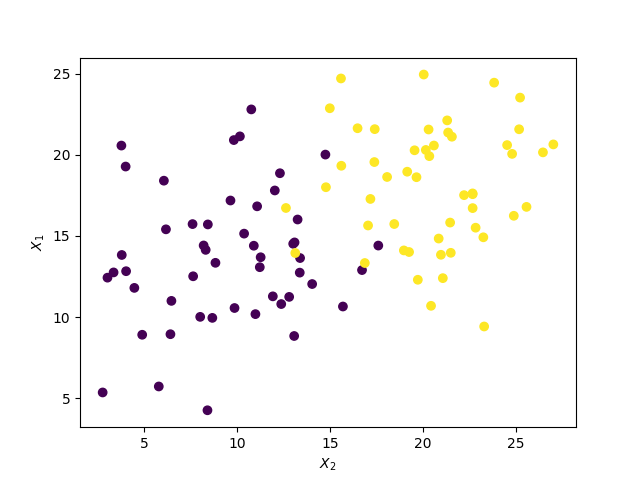
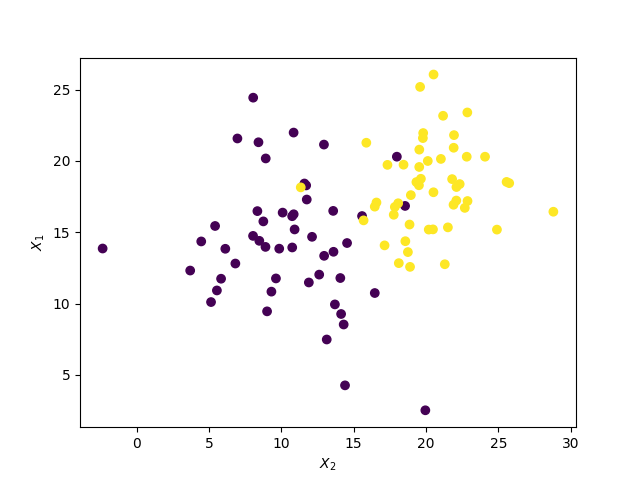
LAB 1 complete and refactor started

diff --git a/MACHINE-LEARNING/LABS-progs/labs/.vscode/.ropeproject/config.py b/MACHINE-LEARNING/LABS-progs/labs/.vscode/.ropeproject/config.py
@@ -1,0 +1,114 @@
+# The default ``config.py``
+# flake8: noqa
+
+
+def set_prefs(prefs):
+    """This function is called before opening the project"""
+
+    # Specify which files and folders to ignore in the project.
+    # Changes to ignored resources are not added to the history and
+    # VCSs.  Also they are not returned in `Project.get_files()`.
+    # Note that ``?`` and ``*`` match all characters but slashes.
+    # '*.pyc': matches 'test.pyc' and 'pkg/test.pyc'
+    # 'mod*.pyc': matches 'test/mod1.pyc' but not 'mod/1.pyc'
+    # '.svn': matches 'pkg/.svn' and all of its children
+    # 'build/*.o': matches 'build/lib.o' but not 'build/sub/lib.o'
+    # 'build//*.o': matches 'build/lib.o' and 'build/sub/lib.o'
+    prefs['ignored_resources'] = ['*.pyc', '*~', '.ropeproject',
+                                  '.hg', '.svn', '_svn', '.git', '.tox']
+
+    # Specifies which files should be considered python files.  It is
+    # useful when you have scripts inside your project.  Only files
+    # ending with ``.py`` are considered to be python files by
+    # default.
+    # prefs['python_files'] = ['*.py']
+
+    # Custom source folders:  By default rope searches the project
+    # for finding source folders (folders that should be searched
+    # for finding modules).  You can add paths to that list.  Note
+    # that rope guesses project source folders correctly most of the
+    # time; use this if you have any problems.
+    # The folders should be relative to project root and use '/' for
+    # separating folders regardless of the platform rope is running on.
+    # 'src/my_source_folder' for instance.
+    # prefs.add('source_folders', 'src')
+
+    # You can extend python path for looking up modules
+    # prefs.add('python_path', '~/python/')
+
+    # Should rope save object information or not.
+    prefs['save_objectdb'] = True
+    prefs['compress_objectdb'] = False
+
+    # If `True`, rope analyzes each module when it is being saved.
+    prefs['automatic_soa'] = True
+    # The depth of calls to follow in static object analysis
+    prefs['soa_followed_calls'] = 0
+
+    # If `False` when running modules or unit tests "dynamic object
+    # analysis" is turned off.  This makes them much faster.
+    prefs['perform_doa'] = True
+
+    # Rope can check the validity of its object DB when running.
+    prefs['validate_objectdb'] = True
+
+    # How many undos to hold?
+    prefs['max_history_items'] = 32
+
+    # Shows whether to save history across sessions.
+    prefs['save_history'] = True
+    prefs['compress_history'] = False
+
+    # Set the number spaces used for indenting.  According to
+    # :PEP:`8`, it is best to use 4 spaces.  Since most of rope's
+    # unit-tests use 4 spaces it is more reliable, too.
+    prefs['indent_size'] = 4
+
+    # Builtin and c-extension modules that are allowed to be imported
+    # and inspected by rope.
+    prefs['extension_modules'] = []
+
+    # Add all standard c-extensions to extension_modules list.
+    prefs['import_dynload_stdmods'] = True
+
+    # If `True` modules with syntax errors are considered to be empty.
+    # The default value is `False`; When `False` syntax errors raise
+    # `rope.base.exceptions.ModuleSyntaxError` exception.
+    prefs['ignore_syntax_errors'] = False
+
+    # If `True`, rope ignores unresolvable imports.  Otherwise, they
+    # appear in the importing namespace.
+    prefs['ignore_bad_imports'] = False
+
+    # If `True`, rope will insert new module imports as
+    # `from <package> import <module>` by default.
+    prefs['prefer_module_from_imports'] = False
+
+    # If `True`, rope will transform a comma list of imports into
+    # multiple separate import statements when organizing
+    # imports.
+    prefs['split_imports'] = False
+
+    # If `True`, rope will remove all top-level import statements and
+    # reinsert them at the top of the module when making changes.
+    prefs['pull_imports_to_top'] = True
+
+    # If `True`, rope will sort imports alphabetically by module name instead
+    # of alphabetically by import statement, with from imports after normal
+    # imports.
+    prefs['sort_imports_alphabetically'] = False
+
+    # Location of implementation of
+    # rope.base.oi.type_hinting.interfaces.ITypeHintingFactory In general
+    # case, you don't have to change this value, unless you're an rope expert.
+    # Change this value to inject you own implementations of interfaces
+    # listed in module rope.base.oi.type_hinting.providers.interfaces
+    # For example, you can add you own providers for Django Models, or disable
+    # the search type-hinting in a class hierarchy, etc.
+    prefs['type_hinting_factory'] = (
+        'rope.base.oi.type_hinting.factory.default_type_hinting_factory')
+
+
+def project_opened(project):
+    """This function is called after opening the project"""
+    # Do whatever you like here!

diff --git a/MACHINE-LEARNING/LABS-progs/labs/src/labs/lab1.py b/MACHINE-LEARNING/LABS-progs/labs/src/labs/lab1.py
@@ -17,13 +17,6 @@ class NaiveBayesLab:
         # инициализируем множество классов
         self.Y = data_set[:, [-1]].ravel()
 
-    def __init__(self, X, Y):
-        # в случае титаника классы определены в другом столбце, поэтому 
-        # реализация немного другая
-        self.clf = GaussianNB()
-        self.X_train = X
-        self.Y_train = Y
-
     def classification(self, test_train_ratio):
         # разбиваем набор данных на обучающую и тестовую выборку
         self.X_train, self.X_test, self.Y_train, self.Y_test =  train_test_split(self.X, self.Y, test_size=test_train_ratio)
@@ -32,11 +25,6 @@ class NaiveBayesLab:
         # классификация тестовой выборки
         self.Y_result = self.clf.predict(self.X_test)
         self.accuracy = accuracy_score(self.Y_test, self.Y_result)
-
-    def classification(self, X_test, Y_test):
-        self.clf.fit(self.X_train, self.Y_train)
-        self.Y_result = self.clf.predict(X_test)
-        self.accuracy = accuracy_score(Y_test, self.Y_result)
     
     def show_result(self):
         print("Size of train: ", len(self.X_train))
@@ -63,6 +51,9 @@ def spam():
     tools.plot_precision(accuracy_list, 'results/NaiveBayes/spam.png')
 
 def generate_points():
+    data = tools.MLStructure()
+    data_frame = pd.DataFrame()
+
     n = 50
     X_1 = np.random.normal(10, 4, n)
     X_1 = np.append(X_1, np.random.normal(20, 3, n))
@@ -70,30 +61,50 @@ def generate_points():
     X_2 = np.append(X_2, np.random.normal(18, 3, n))
     Y = np.full(n, -1)
     Y = np.append(Y, np.ones(n))
-    data_set = np.column_stack((X_1, X_2))
-    data_set = np.column_stack((data_set, Y))
-    tools.plot_data_set(data_set, 'results/NaiveBayes/generated.png')
 
-    test = NaiveBayesLab(data_set)
-    accuracy_list = tools.get_accuracy_list(test, 0.2, 0.9, 10)
-    tools.plot_precision(accuracy_list, 'results/NaiveBayes/generated_precision.png')
+    data_frame['X_1'] = X_1
+    data_frame['X_2'] = X_2
+    data_frame['Y'] = Y
+    tools.plot_data_set(data_frame, 'X_1', 'X_2', 'Y', 'results/NaiveBayes/generated.png')
 
-    test.classification(0.2)
-    test.show_result()
-    print('Confusion matrix: \n', confusion_matrix(test.Y_test, test.Y_result))
+    x = data_frame.drop('Y', axis=1)
+    y = data_frame['Y'].ravel()
+
+    data.clf = GaussianNB()
+    accuracy_list = tools.get_accuracy_list(data, 0.2, 0.9, 10)
+    # tools.plot_precision(accuracy_list, 'results/NaiveBayes/generated_precision.png')
+
+    # test.classification(0.2)
+    # test.show_result()
+    # print('Confusion matrix: \n', confusion_matrix(test.Y_test, test.Y_result))
     
 def titanic():
-    cat = preprocessing.OneHotEncoder()
-    X_train, Y_train = tools.read_csv_string('data/titanic/train.csv', cat, 1)
-    X_test = tools.read_csv_features('data/titanic/test.csv', cat)
-    Y_test = tools.read_csv_labels('data/titanic/gender_submission.csv', 'Survived')
-    test = NaiveBayesLab(X_train, Y_train)
-    test.classification(X_test, Y_test)
-    accuracy_list = tools.get_accuracy_list(test, 0.2, 0.9, 10)
-    tools.plot_precision(accuracy_list, 'results/NaiveBayes/spam.png')
+    data = tools.MLStructure()
+    train_set = pd.read_csv('data/titanic/train.csv')
+    train_set = tools.titanic_preprocessing(train_set)
+    data.x_train, data.y_train = tools.titanic_get_train_X_Y(train_set)
 
+    x_test_set = pd.read_csv('data/titanic/test.csv')
+    y_test_set = pd.read_csv('data/titanic/gender_submission.csv')
+    data.x_test = tools.titanic_preprocessing(x_test_set)
+    data.y_test = y_test_set['Survived'].ravel()
 
-
+    clf = GaussianNB()
+    clf.fit(data.x_train, data.y_train)
+    data.y_result = clf.predict(data.x_test)
+    tools.show_stat(data)
+    
+def titanic_split():
+    data = tools.MLStructure()
+    data_frame = pd.read_csv('data/titanic/train.csv')
+    data_frame = tools.titanic_preprocessing(data_frame)
+    x, y = tools.titanic_get_train_X_Y(data_frame)
+    data.x_train, data.x_test, data.y_train, data.y_test =  train_test_split(x, y, test_size=0.1)
+    
+    clf = GaussianNB()
+    clf.fit(data.x_train, data.y_train)
+    data.y_result = clf.predict(data.x_test)
+    tools.show_stat(data)
 
 
 

diff --git a/MACHINE-LEARNING/LABS-progs/labs/src/tools.py b/MACHINE-LEARNING/LABS-progs/labs/src/tools.py
@@ -1,8 +1,20 @@
 import numpy as np
 import pandas as pd
 from sklearn import preprocessing
+from sklearn.metrics import accuracy_score
+from sklearn.metrics import confusion_matrix
 import matplotlib.pyplot as plt
-#TODO: переделать X и Y в класс.
+
+#TODO: x, y in class
+class MLStructure(object):
+    x = None
+    y = None
+    clf = None
+    x_train = None
+    y_train = None
+    x_test = None
+    y_test = None
+    y_result = None
 
 # функция перевода строкового массива элементов выборки в числовой 
 def to_numeric(some_fit, ArrayToEncode):
@@ -17,30 +29,13 @@ def to_numeric(some_fit, ArrayToEncode):
 def read_string_data(some_fit, path):
     return to_numeric(some_fit, np.loadtxt(path, dtype='str', delimiter=',')) 
 
-def read_csv_string(path, cat, class_column):
-    data_frame = pd.read_csv(path)
-    data_frame = data_frame.fillna(0)
-    Y = data_frame.values[:, [class_column]].ravel().astype(int)
-    X = np.delete(data_frame.values, class_column, axis=1)
-    X = cat.fit_transform(X.astype(str)).toarray()
-    return X, Y; 
-
-def read_csv_features(path, cat):
-    data_frame = pd.read_csv(path)
-    data_frame = data_frame.fillna(0)
-    X = cat.transform(data_frame.astype(str)).toarray()
-    return X;
-
-def read_csv_labels(path, class_column_name):
-    Y = pd.read_csv(path, usecols=[class_column_name], dtype=int)
-    return Y; 
-
-def get_accuracy_list(clf, min_test_ratio, max_test_ratio, step_count):
+def get_accuracy_list(data, min_test_ratio, max_test_ratio, step_count):
     step = (max_test_ratio - min_test_ratio) / step_count
     accuracy_list = []
     iterator = min_test_ratio
     while iterator <= max_test_ratio:
-        clf.classification(iterator)
+        data.x_train, data.x_test, data.y_train, data.y_test =  train_test_split(data.x, data.y, test_size=test_train_ratio)
+        data.clf.fit()
         accuracy_list.append([1 - iterator, clf.accuracy])
         iterator += step
         iterator = round(iterator,2)
@@ -54,11 +49,42 @@ def plot_precision(points, plot_path):
     plt.savefig(plot_path)
     plt.close()
 
-def plot_data_set(data_set, plot_path):
-    x, y, c = data_set.T
-    plt.scatter(x, y, c=c)
+def plot_data_set(data_set, column_x_1, column_x_2, column_class, plot_path):
+    x_1 = data_set[column_x_1].ravel()
+    x_2 = data_set[column_x_2].ravel()
+    c = data_set[column_class].ravel()
+    plt.scatter(x_1, x_2, c=c)
     plt.ylabel('$X_1$')
     plt.xlabel('$X_2$')
     plt.savefig(plot_path)
     plt.close()
+
+def titanic_preprocessing(input_frame):
+    data_frame = input_frame.copy()
+    data_frame['Name'] = data_frame['Name'].apply(len)
+    data_frame['Sex'] = data_frame['Sex'].map({'male': 0, 'female': 1}).astype(int)
+    data_frame['Age'] = data_frame['Age'].fillna(data_frame['Age'].mean(skipna=True)).astype(int)
+    data_frame['FamilySize'] = data_frame['SibSp'] + data_frame['Parch'] + 1
+    data_frame['HasCabin'] = data_frame['Cabin'].apply(lambda x: 0 if type(x) == float else 1)
+    data_frame['Fare'] = data_frame['Fare'].fillna(data_frame['Fare'].mean(skipna=True)).astype(int)
+    data_frame['Embarked'] = data_frame['Embarked'].fillna('S').map({'S': 0, 'C': 1, 'Q': 2}).astype(int)
+
+    data_frame = data_frame.drop(['PassengerId','SibSp', 'Parch', 'Ticket', 'Cabin'], axis=1)
+    return data_frame
+
+def titanic_get_train_X_Y(input_frame):
+    data_frame = input_frame.copy()
+    Y = data_frame['Survived'].ravel()
+    X = data_frame.drop('Survived', axis=1)
+    return X, Y
+
+def show_stat(data):
+    print("Size of train: ", len(data.x_train))
+    print("Size of test: ", len(data.x_test))
+    print("Accuracy: ", accuracy_score(data.y_test, data.y_result))
+    print('Confusion matrix: \n', confusion_matrix(data.y_test, data.y_result))
+
+
+
+    
 

diff --git a/MACHINE-LEARNING/LABS-progs/labs/src/Main.py b/MACHINE-LEARNING/LABS-progs/labs/src/Main.py
@@ -1,3 +1,3 @@
 from labs import lab1
 
-lab1.titanic()
+lab1.generate_points()
